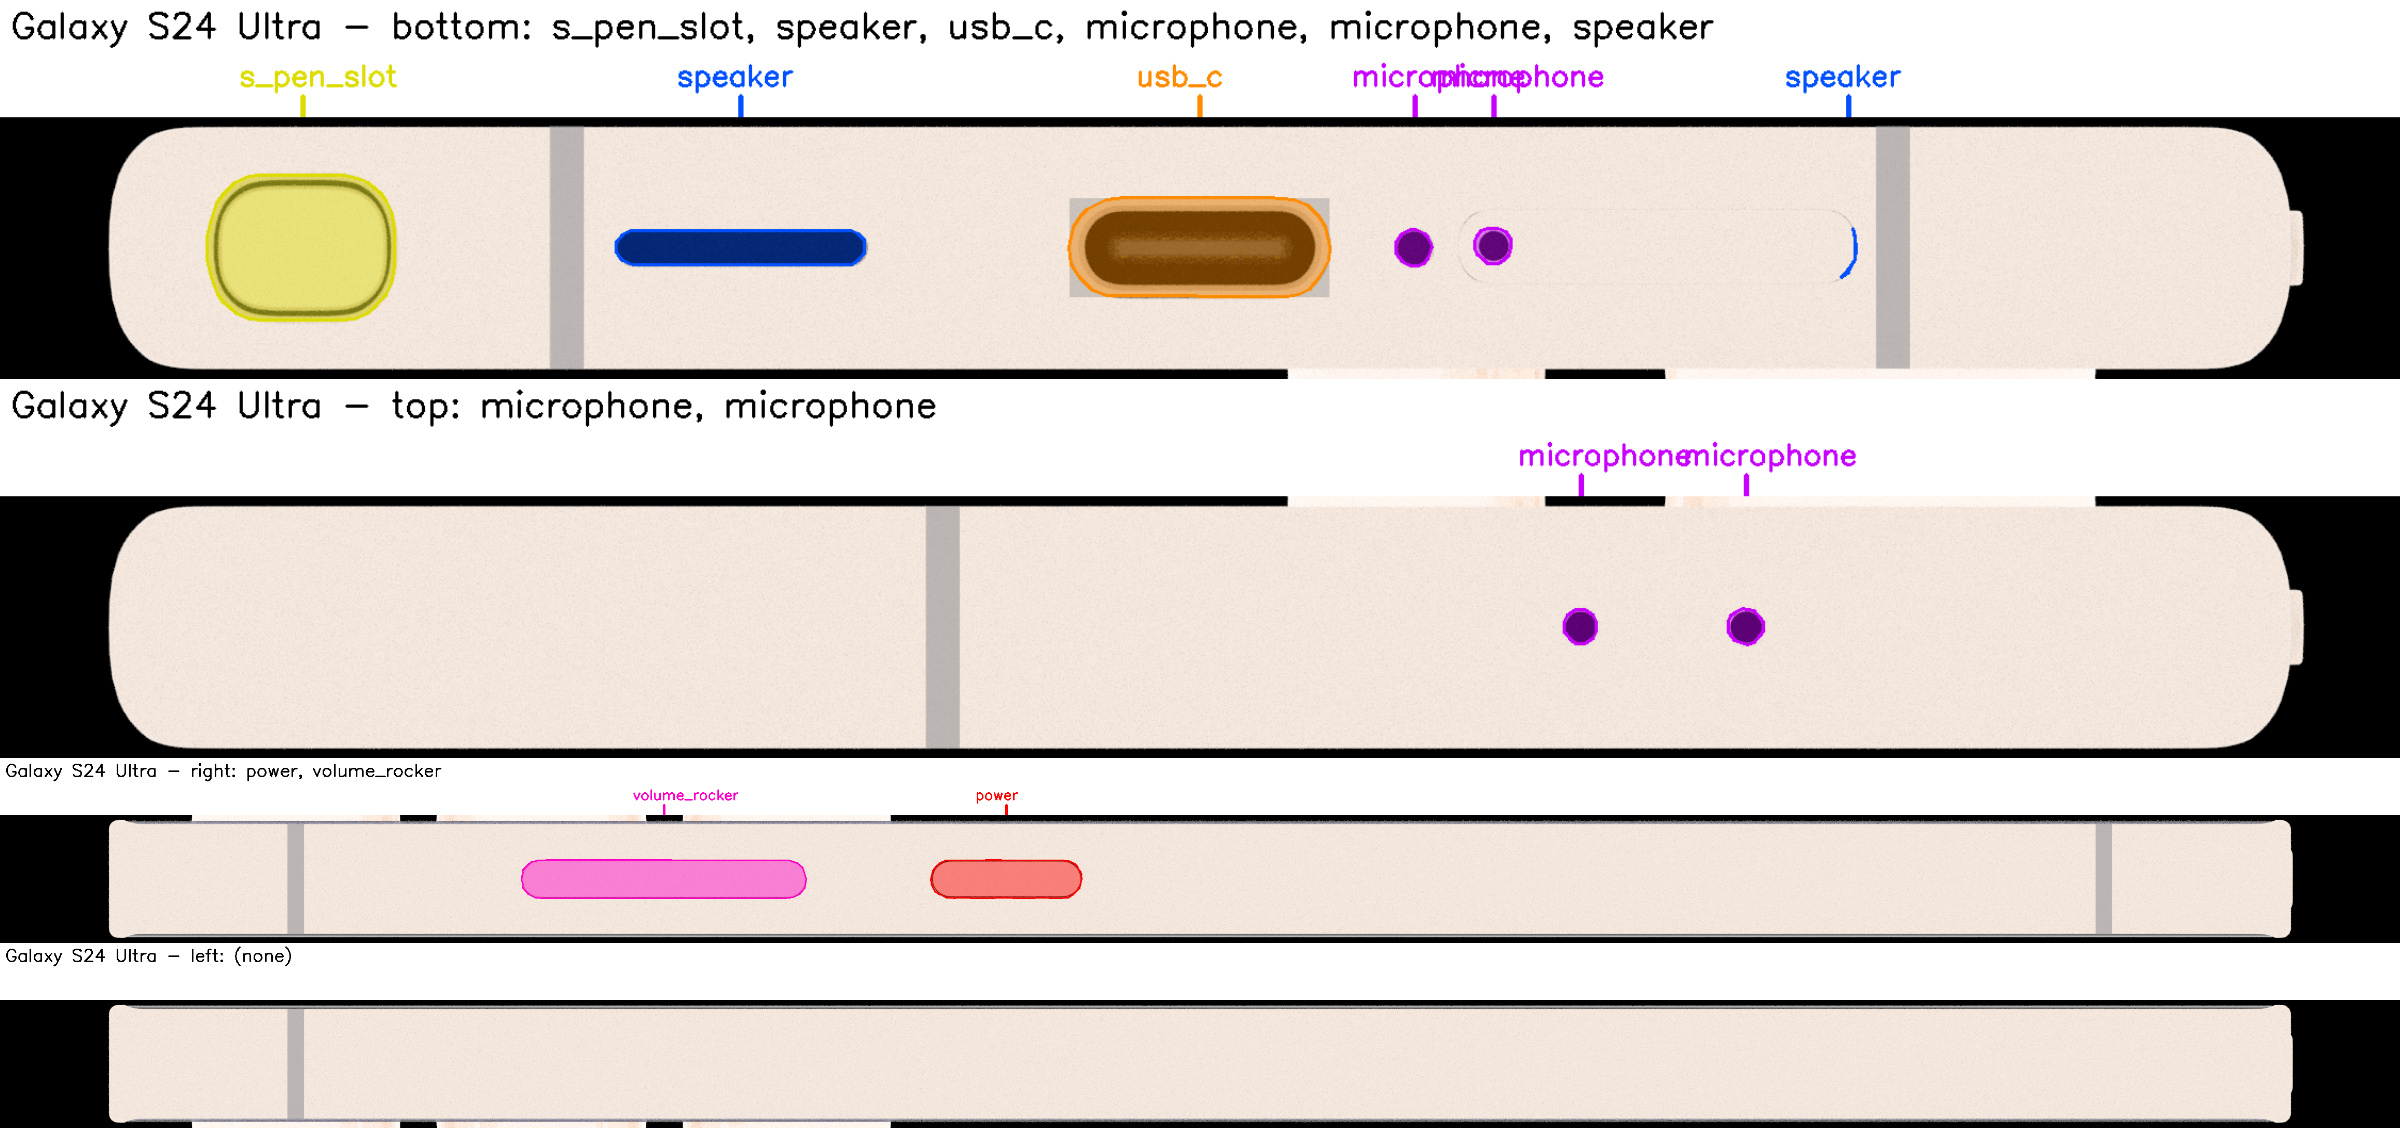
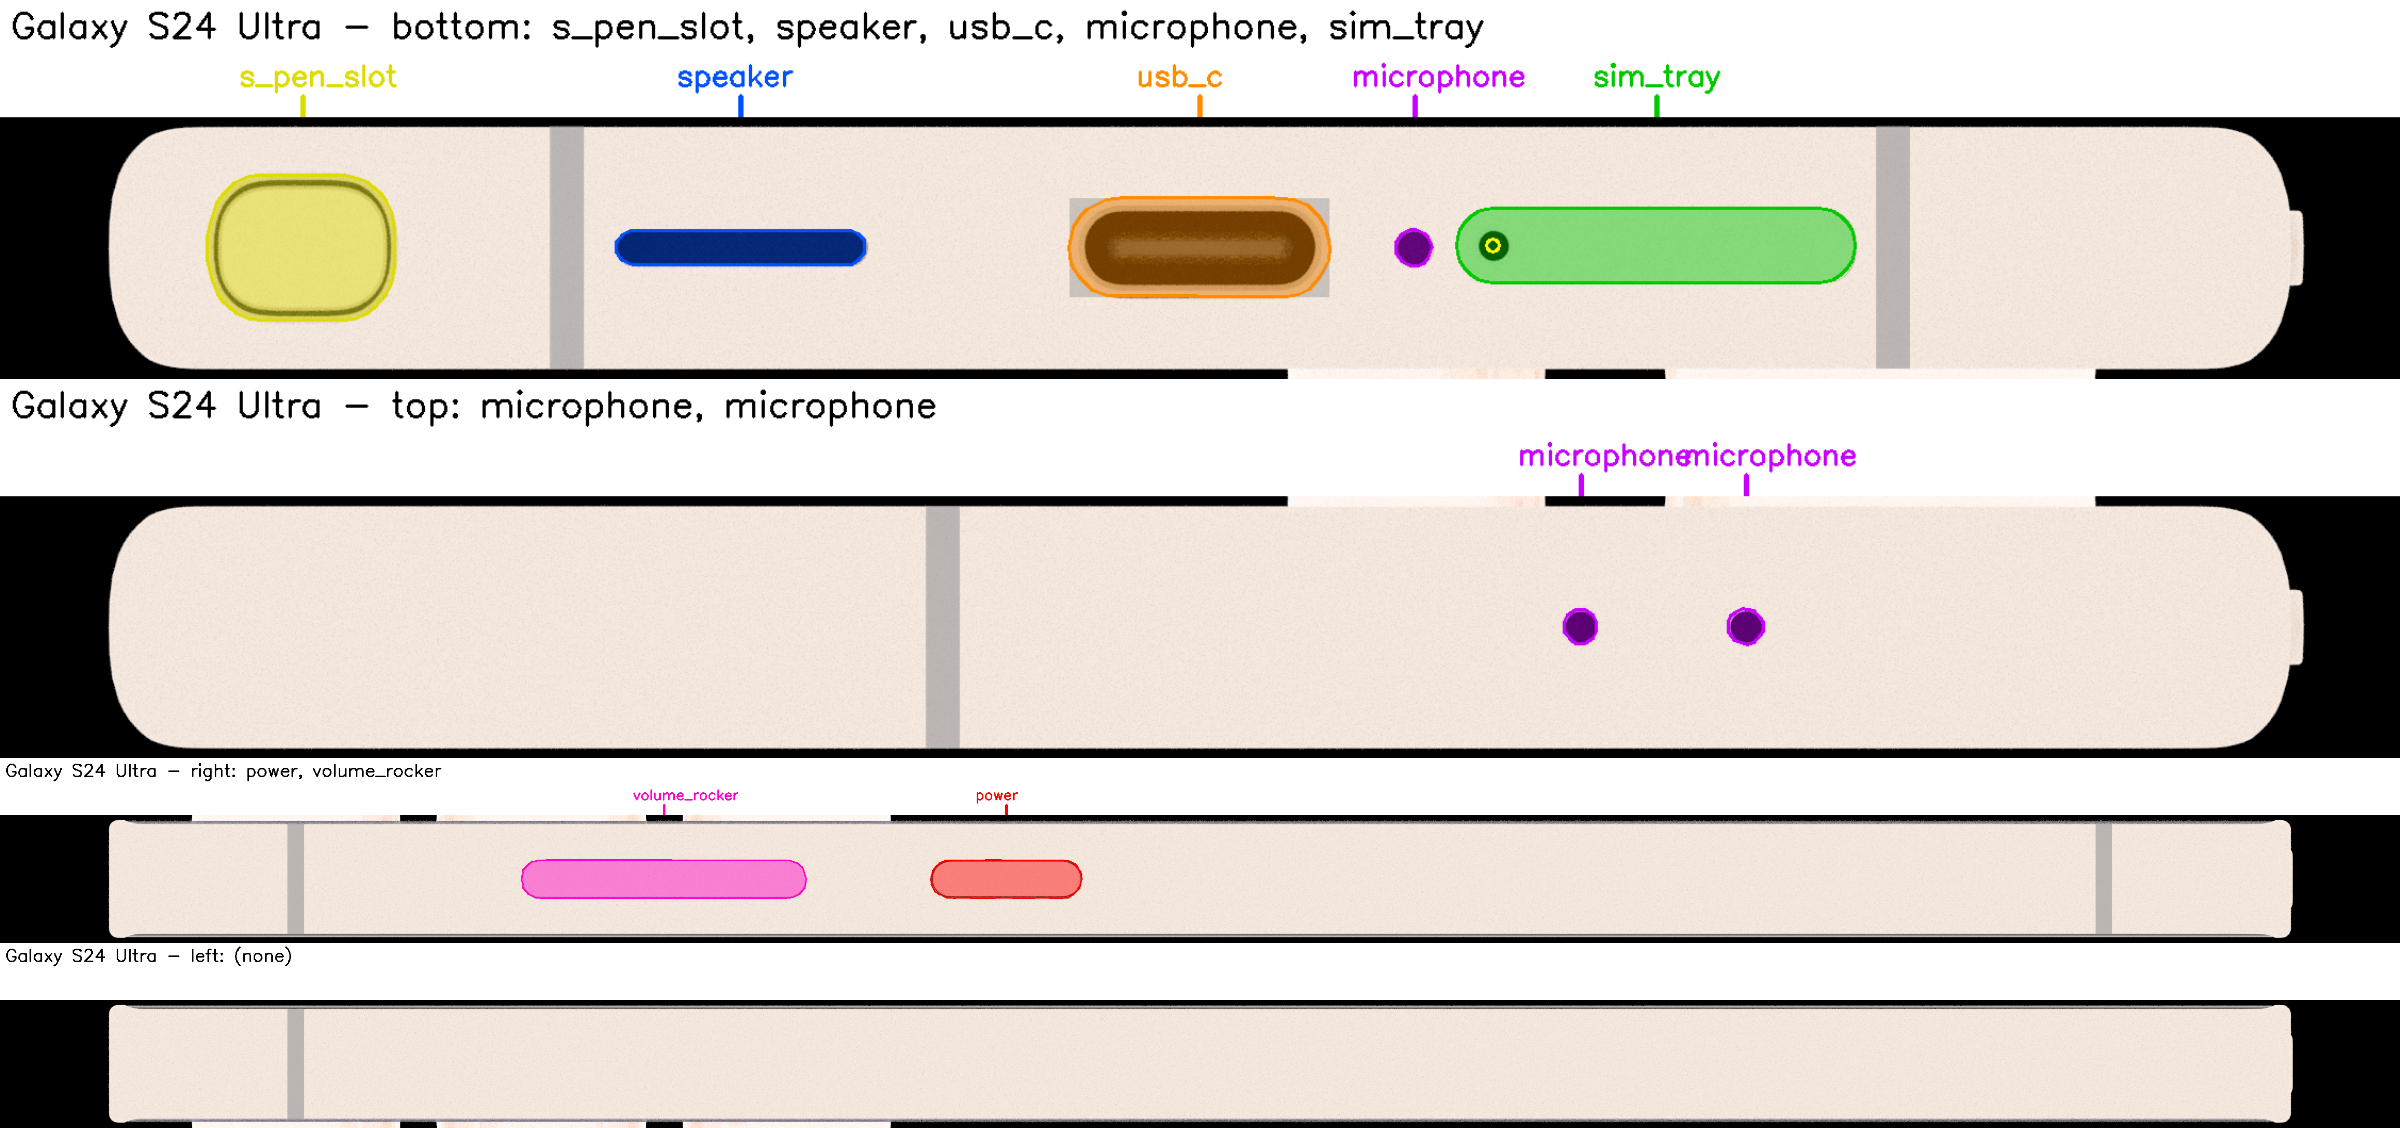
update report

Changed region(s): [[0.5938, 0.1551, 0.7812, 0.2793], [0.5625, 0.0, 0.7188, 0.0931], [0.75, 0.0621, 0.7812, 0.0931]]

diff --git a/product_consistency/_lm_overlay.py b/product_consistency/_lm_overlay.py
@@ -21,6 +21,8 @@ from review_product_consistency_v3.core.ortho import load_ortho  # noqa: E402
 from review_product_consistency_v3.formfactors.bar import landmarks as L  # noqa: E402
 
 FACES = ("bottom", "top", "right", "left")
+_MP = Path.home() / "TestCase/product_consistency/manual_sim/manual_sim.json"
+MANUAL = json.loads(_MP.read_text())["items"] if _MP.exists() else {}
 ROLES = ("hole", "usb", "seam", "button", "anchor")
 # A 시리즈 — 재질 역할(그림으로 확인한 제안). depth: 정사영 깊이로 구멍·홈을 hole에 더한다
 A_MAP = {
@@ -141,6 +143,31 @@ def extract_product(spec_id: str, cfg):
                     best = min(cand, key=lambda f: abs(f["center"][0] - port["position"]))
                     if abs(best["center"][0] - port["position"]) < 0.05:
                         best["type"] = "usb_c"
+        man = MANUAL.get(spec_id)
+        if man and man["face"] == fid:
+            # 사람이 준 SIM 트레이 상자 — 상자 안 자동 조각(테두리 조각·핀 구멍을 마이크로 본 것)을 SIM 하나로
+            Hh, Ww = of.matid.shape
+            ppw = of.px_per_w
+            x0, y0, x1, y1 = man["box_px"]
+            fx = lambda c: (c - Ww / 2) / ppw
+            fy = lambda rr: (Hh / 2 - rr) / ppw
+            bx0, bx1, by0, by1 = fx(x0), fx(x1), fy(y1), fy(y0)
+            inside = [f for f in feats if bx0 <= f["center"][0] <= bx1 and by0 <= f["center"][1] <= by1]
+            feats = [f for f in feats if f not in inside]
+            pins = [f for f in inside if max(f["size"]) < 0.02]
+            rad = min(bx1 - bx0, by1 - by0) / 2
+            t = np.linspace(0, np.pi / 2, 8)
+            cx0, cx1, cy0, cy1 = bx0 + rad, bx1 - rad, by0 + rad, by1 - rad
+            outline = ([[cx1 + rad * np.cos(a), cy1 + rad * np.sin(a)] for a in t]
+                       + [[cx0 - rad * np.sin(a), cy1 + rad * np.cos(a)] for a in t]
+                       + [[cx0 - rad * np.cos(a), cy0 - rad * np.sin(a)] for a in t]
+                       + [[cx1 + rad * np.sin(a), cy0 - rad * np.cos(a)] for a in t])
+            feats.append({"face": fid, "type": "sim_tray", "manual": True,
+                          "center": [round((bx0 + bx1) / 2, 5), round((by0 + by1) / 2, 5)],
+                          "size": [round(bx1 - bx0, 5), round(by1 - by0, 5)],
+                          "outline": [[round(float(x), 5), round(float(y), 5)] for x, y in outline],
+                          "children": [{"type": "pin_hole", "center": p["center"]} for p in pins]})
+            feats.sort(key=lambda f: tuple(f["center"]))
         out[fid] = (of.rgb, of.px_per_w, feats, anchors, r)
     return spec, out
 
